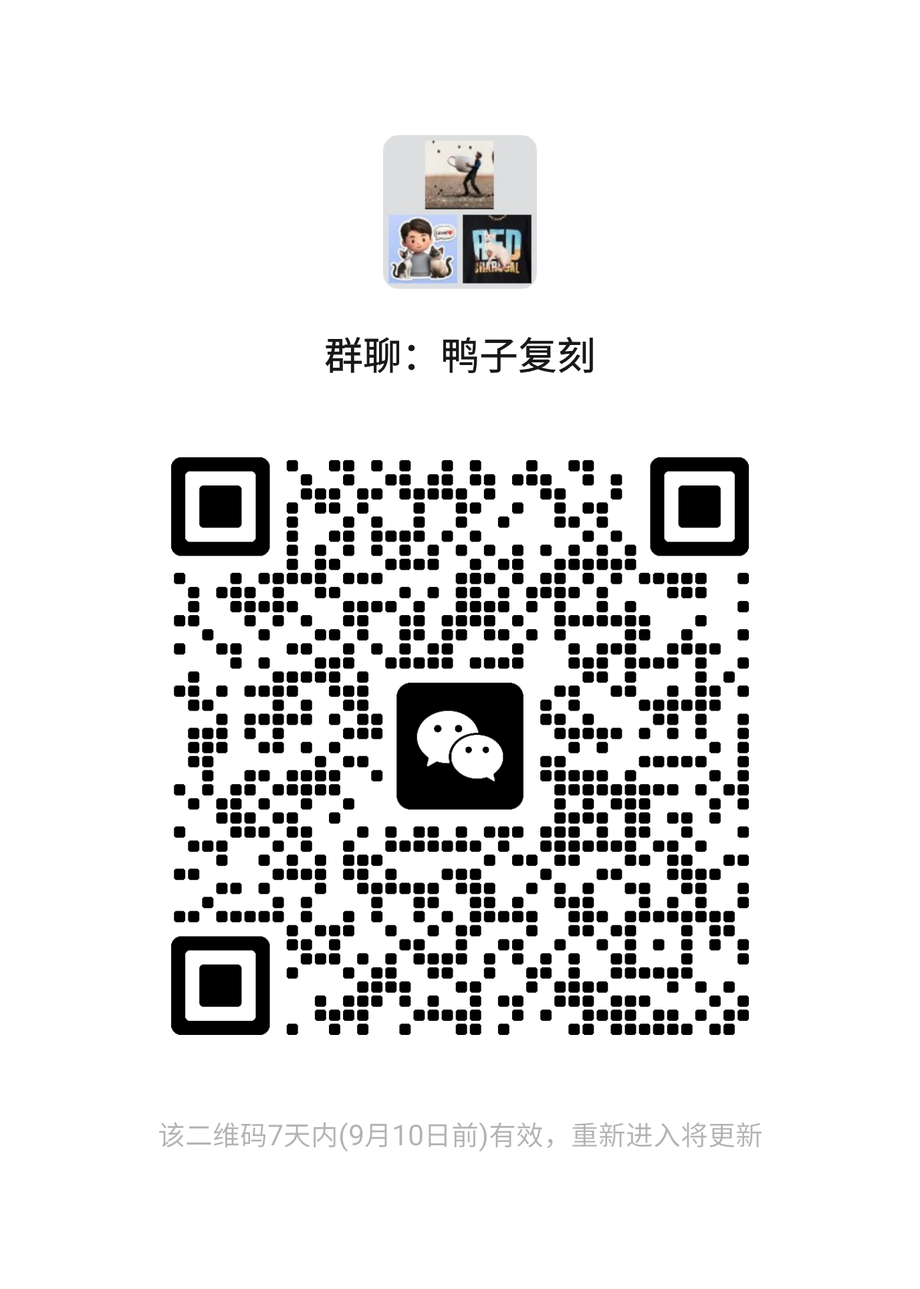
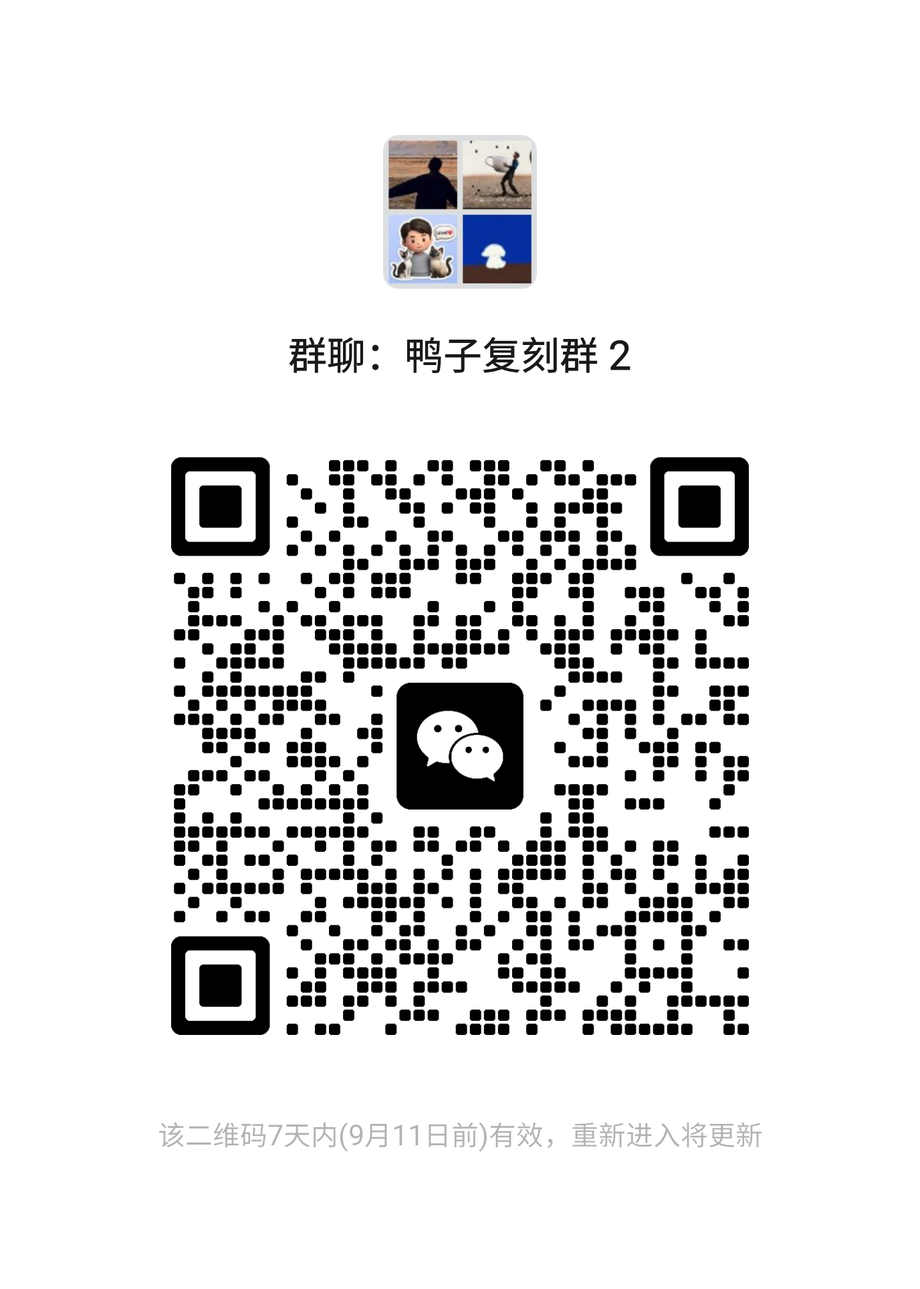
一轮审核勘误：摄像头角度、飞特协议论证、板卡口径，并收敛重复陈述
上一轮勘误只改了"发起地"那一份，散在别处的四到六份副本没跟着动，仓库里
一度同时存在两套互相打脸的说法。这次一并收齐，并补上导致这种漂移的结构问题。

事实冲突裁定
  - 摄像头是转 90° 不是倒装 180°（mediad/src/main.rs:82 的 --rotate 默认 90，
    注释「the head camera is mounted a quarter turn off」）；media-bringup.md:472
    的 180° 是 alpha 机数据。此前 7 处两派并存，其中 BOM.md 拒绝下判断
  - 打印件计数统一为 30 种 / 41 件、标准件 8（bearing_roll 改判后的值）；
    删掉 README 里与 print/README.md 矛盾的「已排除 7 个台架夹具」
  - 飞特 STS3032 力矩统一为约 85%（同电压口径）。46% 是拿 0.44 N·m 去比 MJCF 的
    forcerange 0.96 —— 那是仿真力限不是厂商值，本仓库已明令禁止这种比较
  - MK1 撤回 LMA2718（官方 BOM 只写 Microphone_MEMS，LCSC C7587901）
  - U10 LM5050-1 的「防反接」标签改为「理想二极管 OR-ing + 关机检测」，
    它在 buck 之后的 +5V 那一路
  - imu_to_dxl 的 MCU 统一为 STM32G031F8P6，并标明这是选型建议、不是逆向所得

板卡配置：撤回上一轮过重的勘误
  上一轮把「官方用 1GB/32GB」降级为「未知」，理由是源码里 grep 不到。但源码里
  没有 ≠ 官方没公布过 —— 官方 2026-08-27 发布页确实列了 1 GB / 32 GB。
  改为「官方公布 1G/32G，源码无佐证，复刻建议 2G/16G」。

飞特协议：更正一处自己引入的错误
  此前新写的对照表称 Dynamixel 侧「应答拼成一个包、总线转向 2 次」，这与同节
  引用的官方源码「500 µs per device × 16 devices = 8 ms」不能同时成立。
  查证：全库检索 fast_sync_read / 0x8A 零命中，duck-control/src/bus.rs:236 调的是
  普通 sync_read_raw_data。fast sync read 是 V2 的可选优化，官方并未使用。
  → 两边应答机制相同，都是每设备一个独立包；真正的差别只剩包格式，以及
    XL330 出厂 return_delay_time = 250 带来的 8 ms 空等（飞特默认 0）。
  转向次数标注为协议推论、未实测。

结构收敛
  - 「HAT 不要录音可整块省略」三处补上：半双工方向电路是必需的，省 HAT 要另配转接板
  - 「打样前必读的四件事」改名「四条警告」，避免与「HAT 干四件事」撞词
  - 硬件方案逆向 §一 补「主控、HAT、摄像头都在头里」——这份被引用最多却没写
  - 补四条反向链接；README.en 补收三份新文档；英文版挂「落后于中文版」横幅
  - 全量校验 23 个 md 的相对链接与锚点：0 处失效

其他
  - 微信群二维码更新为二群（一群已满 200 人），有效期至 2026-09-11
[…]

diff --git a/README.md b/README.md
@@ -28,10 +28,12 @@ MJCF 里包含了完整的运动学树：每个零件挂在谁身上、相对位
 
 有人在做同样的事，凑了个微信群一起讨论复刻进度、踩过的坑、元件采购。
 
+**一群已满 200 人**（微信满 200 后无法扫码进），下面是**二群**的码。
+
 <div align="center">
   <img src="assets/wechat-group.png" alt="鸭子复刻 微信群" width="280">
   <br>
-  <sub><b>二维码有效期到 2026-09-10</b>（微信群码 7 天自动失效）<br>
+  <sub><b>鸭子复刻群 2 · 二维码有效期到 2026-09-11</b>（微信群码 7 天自动失效）<br>
   过期了请开个 <a href="https://github.com/fanhao375/microduck-replica/issues">issue</a> 说一声，我会换上新的</sub>
 </div>
 
@@ -109,10 +111,10 @@ MJCF 里包含了完整的运动学树：每个零件挂在谁身上、相对位
 
 | 目录 | 数量 |
 |---|---|
-| [`print/打印件/`](print/打印件/) | **37 个**结构件 |
+| [`print/打印件/`](print/打印件/) | **30 种 / 41 件**结构件 |
 | [`print/标准件-无需打印/`](print/标准件-无需打印/) | **9 个**外购件模型（对位用） |
 
-> 已排除上游的 7 个台架测试夹具和 1 个重复件。打印建议见 [`print/README.md`](print/README.md)。
+> 上游的 XL330 台架测试夹具在另一个目录，本来就不属于机器人。打印建议与数量表见 [`print/README.md`](print/README.md)，采购见 [机械采购清单](docs/机械采购清单.md)。
 
 ## CAD 装配体
 
@@ -129,6 +131,17 @@ MJCF 里包含了完整的运动学树：每个零件挂在谁身上、相对位
 
 ## 从运行时反推出的电控方案
 
+<div align="center">
+  <img src="assets/hw/01-物理布局.png" alt="Microduck 电控总览：板子都装在哪" width="880">
+  <br>
+  <sub><b>五个模块的物理布局</b> —— 灰色虚线框是物理区域，实线框是模块，红色虚线框表示装在壳体<b>外面</b>。<br>
+  <b>橙色</b>是舵机总线（自上而下），<b>红色</b>是电池供电（自下而上）。<br>
+  最容易搞错的一条：<b>主控、HAT、摄像头三者都在头里</b>，摄像头距主控板中心约 13 mm 且中间没有关节 ——<br>
+  所以 MIPI 排线不穿过脖子，真正过颈的是舵机总线和供电线。<br>
+  <a href="docs/硬件入门.md">完整图集与讲解 →</a></sub>
+</div>
+
+
 **一条 1 Mbps 的 TTL 串行总线搞定一切。**
 
 ```
@@ -136,7 +149,7 @@ MJCF 里包含了完整的运动学树：每个零件挂在谁身上、相对位
                   ├── UART2  1 Mbps TTL 单线半双工 ── 15× XL330 + imu_to_dxl (ID 200)
                   ├── I2C3   400 kHz (pin 3/5) ────── AIC3104@0x18 · ToF@0x29 · BMI088（未用）
                   ├── I2S3   12.288 MHz ───────────── 音频
-                  ├── MIPI CSI ────────────────────── IMX219（I2C@0x10，倒装）
+                  ├── MIPI CSI ────────────────────── IMX219（I2C@0x10，转 90°）
                   ├── 蓝牙 ────────────────────────── 手柄 / 手机 App
                   ├── Wi-Fi ───────────────────────── WebRTC
                   └── USB-C ───────────────────────── 供电 + maskrom
@@ -145,7 +158,7 @@ MJCF 里包含了完整的运动学树：每个零件挂在谁身上、相对位
 | | |
 |---|---|
 | **主控** | **Radxa Zero 3W** —— 市售模块，**不是定制载板** |
-| SoC | RK3566，四核 Cortex-A55，Mali-G52，0.8 TOPS NPU，1 GB RAM / 32 GB eMMC |
+| SoC | RK3566，四核 Cortex-A55，Mali-G52，0.8 TOPS NPU。官方公布 1 GB / 32 GB eMMC；复刻建议 2G/16G，见 [电控采购清单](docs/电控采购清单.md) |
 | **舵机总线** | **单线半双工 TTL** —— **不是** RS-232，**也不是** RS-485。Dynamixel Protocol V2 @ 1 Mbps，走 `/dev/ttyS2` |
 | **自制板 1** | **`imu_to_dxl` v2** —— 一颗会说 Dynamixel 的 LSM6DSV16X：总线 ID 200、寄存器 124，12 字节块在**同一次** `sync_read` 里和舵机一起读回 |
 | **自制板 2** | **RPI Robot HAT** —— TLV320AIC3104 @ 0x18、一颗休眠的 BMI088、接 ToF 的 Stemma 座。**官方已开源**（[`elec_RPI_Robot_HAT`](https://github.com/pollen-robotics/elec_RPI_Robot_HAT)） |
@@ -198,7 +211,7 @@ MJCF 里包含了完整的运动学树：每个零件挂在谁身上、相对位
 | 舵机 | XL330 × 15，市售件照买 |
 | 主控 | **Radxa Zero 3W**，市售模块，与官方同款 |
 | IMU 板 | 自己画 `imu_to_dxl`：LSM6DSV16X + MCU + 半双工收发器，协议已还原 |
-| HAT 板 | **官方 Gerber 直接打样**（4 层板）；不要录音的话也可整块省略 |
+| HAT 板 | **官方 Gerber 直接打样**（4 层板）。不要录音可整块省略，但**半双工方向电路要另配转接板**，见 [电控采购清单](docs/电控采购清单.md#六两块-pcb) |
 | 软件 | 主控同款则官方 Rust 运行时可直接跑（Apache-2.0） |
 | 策略 | 官方 9 个 ONNX 可用；改硬件后用 [microduck_rl](https://github.com/pollen-robotics/microduck_rl) 重训 |
 

diff --git a/docs/硬件规格速查.md b/docs/硬件规格速查.md
@@ -1,5 +1,7 @@
 # Microduck 硬件规格速查
 
+> 📘 新手先看 [硬件入门](硬件入门.md)（一块板一块板讲）；完整推导见 [硬件方案逆向](硬件方案逆向.md)。
+
 > 一页纸版本。完整推导过程和证据见 [硬件方案逆向.md](硬件方案逆向.md)。
 > 所有数据来自 `pollen-robotics/microduck` 的源码、设备树和配置文件 —— **代码即规格书**。
 
@@ -17,7 +19,7 @@ Dynamixel XL330 + 两块自制板。
                 └──┬────────┬─────────┬────────┘
       /dev/ttyS2   │        │ 40-pin  │ MIPI CSI
       1 Mbps TTL   │        │  I2C3   │
-    ┌──────────────┘        │ 400kHz  └── IMX219 摄像头（倒装 180°）
+    ┌──────────────┘        │ 400kHz  └── IMX219 摄像头（转 90°）
     │                       │
     │              ┌────────▼─────────────────┐
     │              │  Pollen RPI Robot HAT    │  65×30mm 自制板(已开源)
@@ -143,7 +145,7 @@ IMU 板 200
 
 ### ② Pollen RPI Robot HAT —— 官方已开源，直接打样
 
-65.02 × 30.02 × 0.84 mm（实测自 `elec_rpi_robot_hat_pcb.stl`），插 40 针排针。
+**65.0 × 30.9 mm，板厚 1.0 mm，4 层板**（取自官方 KiCad 与 Gerber，见 [BOM](../BOM.md)）。STL 网格量出的 65.02 × 30.02 × 0.84 是仿真近似值，**下单不要用**。插 40 针排针。
 
 | 器件 | I2C 地址 | 说明 |
 |---|---|---|
@@ -165,7 +167,7 @@ IMU 板 200
 |---|---|---|---|
 | IMU | **LSM6DSV16X** | Dynamixel 总线 ID 200 | 芯片内 SFLP 出四元数，主机不跑融合 |
 | ToF | **VL53L5CX / VL53L8CX** | I2C `0x29` @ i2c3 | 15 Hz，多区测距 |
-| 摄像头 | **IMX219**（树莓派 Camera v2） | MIPI CSI，I2C `0x10` | **倒装，需 rotation 180** |
+| 摄像头 | **IMX219**（树莓派 Camera v2） | MIPI CSI，I2C `0x10` | **转 90°**，见 [硬件方案逆向](硬件方案逆向.md#七传感器) |
 
 - 摄像头传感器钉在 1920×1080@30 模式（避开开机默认模式的 21 fps 上限），
   ISP 缩放输出，默认 720p30 @ 2 Mb/s
@@ -234,7 +236,7 @@ IMU 板 200
 | 树莓派 Camera v2（IMX219） | ✅ 直接买 | |
 | VL53L8CX 模块 | ✅ 直接买 | Stemma/Qwiic 现货 |
 | **`imu_to_dxl` 板** | 🔧 **自己画** | 协议已完整还原，元件仅 3 样 |
-| **HAT 板** | ✅ 下载官方 Gerber 打样 | 4 层板；不要录音喇叭也可整块省略 |
+| **HAT 板** | ✅ 下载官方 Gerber 打样 | 4 层板。不要录音喇叭可整块省略，但**半双工方向电路必须另配转接板**，见 [电控采购清单](电控采购清单.md#六两块-pcb) |
 | 控制软件 | ✅ 官方 Apache-2.0 | 主控同款则**可直接跑** |
 | 策略 | ✅ 官方 9 个 ONNX | 硬件不变即可用 |
 
@@ -281,10 +283,10 @@ IMU 板 200
 |---|---|---|---|
 | SoC | RK3566，四核 A55 @1.8GHz，Mali-G52，NPU **0.8 TOPS** | RK3566（设备树 `compatible`） | ✅ 一致 |
 | **主控模块** | **未公布** | **Radxa Zero 3W** | 🔍 **逆向独有** |
-| RAM / 存储 | **1 GB / 32 GB eMMC** | — | 🆕 **佐证**：正是 Radxa Zero 3W 的一个 SKU |
+| RAM / 存储 | **1 GB / 32 GB eMMC** | 源码中无佐证 | 🆕 **官方独有**：正是 Radxa Zero 3W 的一个 SKU。<br>⚠ 复刻建议 2G/16G，见 [电控采购清单](电控采购清单.md#该买哪个配置) |
 | 电池 | **NP-F550，2600 mAh，续航约 1 小时** | NP-F550，2S，8.2 V 满 / 6.6 V 空 | ✅ 一致 |
 | ToF | **8 × 8** LiDAR | VL53L5CX / VL53L8CX @ `0x29` | ✅ 该系列正是 8×8 |
-| 摄像头 | 前置摄像头带指示灯 | **IMX219**（Pi Cam v2），I2C `0x10`，倒装 180° | 🔍 逆向更细 |
+| 摄像头 | 前置摄像头带指示灯 | **IMX219**（Pi Cam v2），I2C `0x10`，**转 90°** | 🔍 逆向更细 |
 | **IMU** | **2 个（身体 + 头部）** | LSM6DSV16X **在用**；BMI088 源码标注 **dormant / unused** | ⚠ **矛盾，见下** |
 | 电机 | 15 DOF，铰接可抓取的喙 | 15 × Dynamixel XL330，含完整 ID 表 | ✅ 一致 |
 | 尺寸重量 | 高 25 cm，宽 **14 cm**，< 800 g | 实测 **144 × 141 × 264 mm**，**737.2 g** | ✅ 一致 |

diff --git a/BOM.md b/BOM.md
@@ -12,7 +12,6 @@
 > `microduck_rl` 工作副本逐字节相同，而该副本是 depth-1 浅克隆、HEAD = **`d424a0c`（2026-08-27）**。
 > 此前记录的基线 `29e887e` / 重导出 `8dfc08f` 在本地对象库中不存在，**因此"重导出前后 geom
 > 计数相同"这句无法验证**。下文所有计数均出自 `d424a0c`。
-> 重导出前后 `robot_walk.xml` 的 geom 计数**完全相同**（38 种 / 75 个），所以本表数量不受影响。
 
 ---
 
@@ -71,8 +70,8 @@
 
 | 部件 | 型号 | 数量 | 依据 / 备注 |
 |---|---|---|---|
-| 主控 | **Radxa Zero 3W** | 1 | 设备树 `compatible = "radxa,zero-3w"`。⚠ 有多档 RAM/eMMC，**官方实际用哪档未知** —— 全库 grep 不到任何板卡规格；复刻建议 2G/16G，推算见 [电控采购清单](docs/电控采购清单.md)；系统镜像必须带 Rockchip 厂商内核（Armbian 系），否则 NPU 不存在 |
-| 摄像头 | 树莓派 Camera v2（**IMX219**） | 1 | `setup-board.sh` 用 `radxa-zero3-rpi-camera-v2` overlay。⚠ **装歪了，要软件补偿**：`media-bringup.md` 写 alpha 机是倒装、`180`；但当前代码 `mediad/src/main.rs` 的 `--rotate` 默认是 **90**。以实机为准 |
+| 主控 | **Radxa Zero 3W** | 1 | 设备树 `compatible = "radxa,zero-3w"`。⚠ 有多档 RAM/eMMC。官方 2026-08-27 发布页公布 **1 GB / 32 GB**，但 `microduck/` 源码中无佐证（源码本来就不体现板卡 SKU）；**复刻建议 2G/16G**，推算见 [电控采购清单](docs/电控采购清单.md#该买哪个配置)；系统镜像必须带 Rockchip 厂商内核（Armbian 系），否则 NPU 不存在 |
+| 摄像头 | 树莓派 Camera v2（**IMX219**） | 1 | `setup-board.sh` 用 `radxa-zero3-rpi-camera-v2` overlay。⚠ **装歪了四分之一圈，要软件补偿**：当前代码 `mediad/src/main.rs:82` 的 `--rotate` 默认 **90**，注释原文「the head camera is mounted **a quarter turn off**, and this is the one place that fact is written down」。`media-bringup.md:472` 的 180° 是 **alpha 机**数据。**以代码为准 = 90°** |
 | 深度 | **VL53L8CX** 或 VL53L5CX 模块 | 1 | 固件两款都支持，按 revision ID 自动识别；地址 `0x29` 或 `0x52`；Stemma/Qwiic 接口 |
 | 电池 | **索尼 NP-F550**（2S，7.4 V） | 1 | ⚠ 见下方勘误 |
 | 电池卡座 | NP-F 系列通用卡座 | 1 | 上游只有打印件 `power_support`，**没有触点模型** —— 取电方案需自行解决 |
@@ -117,7 +116,7 @@
 | MK1 | MEMS 麦克风（LCSC **C7587901**） | 板载。⚠ 官方 BOM 的 Value 只写 `Microphone_MEMS`，原理图旁只有「Onboard Mic.」，**未给具体型号**；本仓库此前写的 LMA2718 无出处，已撤回 |
 | U11 | BMI088 | IMU —— **贴了但软件不用**（即所谓「第二颗 IMU」） |
 | U8 | SIT3088E | RS-485 收发器 |
-| U10 | LM5050-1 | 理想二极管（防反接） |
+| U10 | LM5050-1 | 理想二极管 OR-ing ＋ 关机检测。⚠ 位于 buck 之后的 `+5V` 路，非电池输入端防反接 |
 | U9 | AP63205 | 降压 |
 | U4 | CAT24C32 | EEPROM —— **DNP 不贴**，所以这不是自识别 HAT |
 | J13/J14 | JST EH 3P | Dynamixel **TTL** |
@@ -142,7 +141,7 @@
 
 | 位号 | 器件 | 立创编号 | 说明 |
 |---|---|---|---|
-| U1 | **STM32G031F6P6** | `C529333` | MCU，TSSOP-20。做 Dynamixel V2 从机 |
+| U1 | **STM32G031F8P6** | 待核 | MCU，TSSOP-20。⚠ **这是本仓库的选型建议，不是逆向所得** —— 官方那块板的 MCU 型号无从还原（见 [硬件方案逆向](docs/硬件方案逆向.md#那-imu_to_dxl-板上是什么-mcu)）。选 F8（64 KB Flash）而非 F6（32 KB）是为双协议固件留余量；立创编号需按最终型号重新确认 |
 | U2 | **LSM6DSV16XTR** | `C5267406` | 六轴 IMU + SFLP 硬件融合，LGA-14 |
 | U3 | **SN74LVC2G241DCUR** | `C10430` | 三态缓冲，做单线半双工 |
 | U4 | **HT7533-1** | `C14289` | 3.3V LDO，**耐压 30 V**（基础库免上料费） |

diff --git a/README.en.md b/README.en.md
@@ -44,10 +44,12 @@ This repository is what falls out of reading both.
 
 A WeChat group for people working on the same thing — build progress, pitfalls, sourcing.
 
+**Group 1 is full (200 members — WeChat's cap for QR joins).** The code below is for **group 2**.
+
 <div align="center">
   <img src="assets/wechat-group.png" alt="Microduck replica WeChat group" width="280">
   <br>
-  <sub><b>This QR code expires on 2026-09-10</b> — WeChat group codes are valid for 7 days<br>
+  <sub><b>Duck Replica Group 2 · expires 2026-09-11</b> — WeChat group codes are valid for 7 days<br>
   If it has expired, open an <a href="https://github.com/fanhao375/microduck-replica/issues">issue</a> and I will post a fresh one</sub>
 </div>
 
@@ -130,7 +132,7 @@ Every individual STL, split into print-these and buy-these, bilingual filenames 
 
 | Directory | Count |
 |---|---|
-| [`print/打印件/`](print/打印件/) | **37** structural parts |
+| [`print/打印件/`](print/打印件/) | **30 types / 41 pieces** of structural parts |
 | [`print/标准件-无需打印/`](print/标准件-无需打印/) | **9** bought-part models (for fit checking) |
 
 > Upstream's 7 test-bench fixtures and 1 duplicate are excluded. Printing notes:
@@ -153,6 +155,19 @@ browser and drop an STL in.
 ---
 
 ## Electronics, Reverse-Engineered from the Runtime
+
+<div align="center">
+  <img src="assets/hw/01-物理布局.png" alt="Microduck electronics overview: where each board sits" width="880">
+  <br>
+  <sub><b>Physical layout of the five modules.</b> Dashed grey = physical region, solid = module,
+  dashed red = mounted <b>outside</b> the shell.<br>
+  <b>Orange</b> is the servo bus (top-down), <b>red</b> is battery power (bottom-up).<br>
+  The one thing people get wrong: <b>the compute board, the HAT and the camera are all in the head</b> —
+  the camera sits ~13 mm from the board centre with no joint between them,<br>
+  so the MIPI ribbon never crosses the neck. What does cross it is the servo bus and the power line.<br>
+  <a href="docs/硬件入门.md">Full diagram set (Chinese) →</a></sub>
+</div>
+
 
 **One 1 Mbps TTL serial bus does everything.**
 
@@ -258,6 +273,9 @@ what it is good for.
 | Document | Contents |
 |---|---|
 | [**Hardware Spec Sheet**](docs/硬件规格速查.md) | One-page reference — block diagram, part numbers, bus parameters, build list, pitfalls |
+| [**Hardware Primer**](docs/硬件入门.md) | **Board by board** — what each of the five modules does, how one 20 ms control tick flows, what changes on the Feetech route, and a closing section on **five checks to run before you replicate** |
+| [**Electronics Sourcing (CN)**](docs/电控采购清单.md) | Taobao links with verified availability — main board, camera, ToF, power, both PCBs, cabling and the debug adapter |
+| [**Mechanical Sourcing (CN)**](docs/机械采购清单.md) | Bearings, M2 fasteners, heat-set inserts and the insertion tip, thread locker, filament |
 | [**Hardware Teardown**](docs/hardware-teardown.en.md) 🇬🇧 | **Full derivation with evidence citations — the main board, both custom boards, bus protocol, sensors, power** |
 | [**Actuator Selection**](docs/actuator-selection.en.md) 🇬🇧 | XL330 parameters, BAM M6 config, five calibrated PD sets, backlash modeling — plus **why closed-loop steppers do not work here, what swapping to a Feetech STS3215 actually costs** (737 g vs 2107 g, measured), and a **cross-comparison of same-class servos** including a deep assessment of the Unitree S288 |
 | [**Fastener Reconstruction**](docs/fastener-reconstruction.en.md) 🇬🇧 | Hole-feature scan across 47 STLs → M2 system and purchase quantities |

diff --git a/BOM.en.md b/BOM.en.md
@@ -1,5 +1,7 @@
 # Bill of Materials
 
+> ⚠ **This English version lags behind the Chinese original.** Several corrections (camera rotation, MK1 part number, U10 placement, STS3032 torque basis, board SKU) were applied to the Chinese docs first. **When the two disagree, the Chinese version wins.** Last sync: 2026-09-05.
+
 [简体中文](BOM.md) · **English**
 
 Everything needed to build one Microduck. Quantities come from geom references in upstream
@@ -66,7 +68,7 @@ European inc-VAT retail runs **€603–629** (far above).
 
 | Part | Model | Qty | Basis / note |
 |---|---|---|---|
-| Compute | **Radxa Zero 3W** | 1 | device tree `compatible = "radxa,zero-3w"`. ⚠ Several RAM/eMMC SKUs — **the official one is 1 GB / 32 GB**; the OS image must carry the Rockchip vendor kernel (Armbian family) or the NPU does not exist |
+| Compute | **Radxa Zero 3W** | 1 | device tree `compatible = "radxa,zero-3w"`. ⚠ Several RAM/eMMC SKUs — the official spec page (2026-08-27) states **1 GB / 32 GB**, though the source tree carries no SKU evidence; **2G/16G recommended for a replica**. the OS image must carry the Rockchip vendor kernel (Armbian family) or the NPU does not exist |
 | Camera | Raspberry Pi Camera v2 (**IMX219**) | 1 | `setup-board.sh` applies the `radxa-zero3-rpi-camera-v2` overlay. ⚠ **Mounted off-axis; corrected in software.** `media-bringup.md` says the alpha was upside down (`180`), but the current code default in `mediad/src/main.rs` is `--rotate 90`. Check against your build |
 | Depth | **VL53L8CX** or VL53L5CX module | 1 | firmware supports both, identified by revision ID; address `0x29` or `0x52`; Stemma/Qwiic |
 | Battery | **Sony NP-F550** (2S, 7.4 V) | 1 | ⚠ see correction below |
@@ -109,7 +111,7 @@ Earlier versions of this repository said "NP-F970" in several places; corrected 
 |---|---|---|
 | U2 | TLV320AIC3104IRHBR | Audio codec (I²C `0x18`) |
 | U1 | PAM8406D | Class-D amplifier |
-| MK1 | LMA2718 | On-board MEMS microphone |
+| MK1 | MEMS microphone (LCSC `C7587901`) | On-board. ⚠ Official BOM gives no part number; the earlier LMA2718 has been withdrawn |
 | U11 | BMI088 | IMU — **fitted but unused by software** (the so-called "second IMU") |
 | U8 | SIT3088E | RS-485 transceiver |
 | U10 | LM5050-1 | Ideal diode (reverse protection) |
@@ -138,7 +140,7 @@ Earlier versions of this repository said "NP-F970" in several places; corrected 
 
 | Ref | Part | LCSC | Note |
 |---|---|---|---|
-| U1 | **STM32G031F6P6** | `C529333` | MCU, TSSOP-20. Runs the Dynamixel V2 slave |
+| U1 | **STM32G031F8P6** | TBD | MCU, TSSOP-20. ⚠ **This is our suggestion, not a reverse-engineered fact** — the official board's MCU cannot be recovered. F8 (64 KB) over F6 (32 KB) leaves headroom for dual-protocol firmware |
 | U2 | **LSM6DSV16XTR** | `C5267406` | 6-axis IMU with SFLP fusion, LGA-14 |
 | U3 | **SN74LVC2G241DCUR** | `C10430` | Tri-state buffer for single-wire half-duplex |
 | U4 | **HT7533-1** | `C14289` | 3.3 V LDO, **30 V input rating** (JLC basic part — no setup fee) |

diff --git a/docs/hardware-teardown.en.md b/docs/hardware-teardown.en.md
@@ -1,5 +1,7 @@
 # Microduck Electronics, Reverse-Engineered
 
+> ⚠ **This English version lags behind the Chinese original.** Several corrections (camera rotation, MK1 part number, U10 placement, STS3032 torque basis, board SKU) were applied to the Chinese docs first. **When the two disagree, the Chinese version wins.** Last sync: 2026-09-05.
+
 [简体中文](硬件方案逆向.md) · **English**
 
 **Method:** the Rust runtime is open source, and a runtime that drives real hardware has
@@ -198,7 +200,7 @@ It is a general-purpose HAT for small and medium robots. Three known users:
 | Part | Function |
 |---|---|
 | `U1 = PAM8406D` | Class-D audio amplifier |
-| `MK1 = LMA2718` | **On-board MEMS microphone** |
+| `MK1` | **On-board MEMS microphone** (LCSC `C7587901`). ⚠ The official BOM only says `Microphone_MEMS`; the part number LMA2718 had no source and has been withdrawn |
 | `U10 = LM5050-1` | Ideal-diode controller (reverse protection / OR-ing) |
 | `AP63205` | Buck converter |
 | `CAT24C32` | EEPROM — required by the Raspberry Pi HAT+ specification |
@@ -417,7 +419,7 @@ pitch, and the mouth opens with it. Playable band 0.10–0.70 m.
 | Sensor | **IMX219** (= Raspberry Pi Camera v2) |
 | I²C address | `0x10` |
 | Device-tree overlay | `radxa-zero3-rpi-camera-v2` |
-| Mounting | **upside down**, needs `rotation = 180` |
+| Mounting | **a quarter turn off** — `mediad/src/main.rs:82` defaults `--rotate` to **90**.<br>⚠ The 180° in `docs/project/media-bringup.md:472` is **alpha-unit** data. |
 | Sensor mode | pinned to 1920×1080@30 (its boot mode caps capture at 21 fps) |
 | Default output | 720p30, 2 Mb/s |
 | Encoding | GStreamer + **Rockchip MPP hardware encoder** → WebRTC |
@@ -624,7 +626,7 @@ transceiver. The protocol and 12-byte register layout are given in full above; i
    negotiation (plain 5 V charging still works). See section 4.
 2. **The NPU ships disabled** — Armbian does not enable it; flash the overlay and reboot
    before running RKNN models.
-3. **The camera is mounted upside down** — set `rotation=180` and let the hardware encoder
+3. **The camera is mounted a quarter turn off** — set `rotate=90` and let the hardware encoder
    do it; do *not* use `videoflip`, which is a full CPU pass over every frame.
 4. **The 50 Hz loop was never validated on the Radxa** — Pollen say so themselves; the
    number came from the Pi Zero 2W prototype.

diff --git a/docs/电控采购清单.md b/docs/电控采购清单.md
@@ -75,9 +75,10 @@
 
 → **1 GB 能跑但紧，2 GB 舒服，8 GB 纯浪费。**
 
-> ⚠ **官方实际用哪个配置：未知。** 在 `microduck/` 全库 grep RAM 容量 / eMMC / SKU，
-> **没有任何一处给出官方板卡规格**（只有 `compatible = "radxa,zero-3w"` 和一堆
-> `radxa-zero3` 主机名）。本仓库此前写的「官方用 1GB/32GB」**没有依据，已降级为未知**。
+> ⚠ **官方公布的是 1 GB / 32 GB，但那不等于复刻也该买这档。**
+> 官方 2026-08-27 发布页列出 **1 GB / 32 GB eMMC**（正是 Radxa Zero 3W 的一个 SKU，
+> 也反向佐证了主控判断）；但 `microduck/` 源码里查不到任何板卡 SKU —— 源码本来就不体现这个。
+> **按上面的体量推算，复刻建议 2G/16G**：1 GB 要和 zram 日志设备分内存，跑起来偏紧。
 
 ### 渠道 —— 国内电商价格全线虚高
 
@@ -301,12 +302,12 @@ STM32G031F8P6 + LSM6DSV16X + 半双工缓冲，对外表现成总线从机（Dyn
 
 > **调试板是必需品** —— 舵机到货第一件事是实测总线时序。
 >
-> ⚠ **但要说清楚：这不是飞特独有的问题。** 官方 Dynamixel 路径同样是**每设备一次应答延迟** ——
+> ⚠ **这不是飞特独有的问题。** 官方 Dynamixel 路径同样是**每设备一次应答延迟** ——
 > `duck-control/src/model.rs:84-86` 写着 XL330 出厂 `return_delay_time = 250`，
 > 即 **500 µs/设备**，「Across **16 devices** that is **8 ms per tick — 40% of a 20 ms budget**」，
 > 官方的解法是把这个寄存器写 0（在 `EXPECTED_REGISTERS` 里）。
-> 飞特（Protocol V1）**有没有对应的批量读指令与延迟寄存器，本仓库无法从现有资料判断** ——
-> 所以更要实测，而不是假定它一定更慢。
+> **飞特侧已查清**：STS/SCS 有 `SYNC READ`（`0x82`），且 Return Delay Time 出厂就是 0 ——
+> 见 [硬件方案逆向 · 飞特 STS/SCS 协议对照](../docs/硬件方案逆向.md)。所以更要实测，不能假定它一定更慢。
 
 ---
 
@@ -328,4 +329,3 @@ STM32G031F8P6 + LSM6DSV16X + 半双工缓冲，对外表现成总线从机（Dyn
 - Pollen 是否单卖 HAT
 - Zero 3W 的 CSI 座究竟是 15P 还是 22P（官方文档未给，本文标为「极可能 22P」）
 - 泰山派的规格、价格、开源工程内容
-- 飞特 STS/SC 协议是否有批量读指令

diff --git a/docs/硬件入门.md b/docs/硬件入门.md
@@ -84,7 +84,7 @@
 | GPIO04/05、08/09、10/11 | 额外 Stemma/QT I²C | |
 | MIPI CSI | 摄像头 | |
 
-**买哪个配置**：2G / 16G eMMC。推算过程见 [电控采购清单](电控采购清单.md#该买哪个配置--按实测体量推算)。
+**买哪个配置**：2G / 16G eMMC。推算过程见 [电控采购清单](电控采购清单.md#该买哪个配置)。
 ⚠ **官方实际用哪档配置，全库检索不到任何依据 —— 未知。**
 
 ---
@@ -313,8 +313,8 @@ ISP 配置 `SENSOR = imx219`。
 | 影响 | 说明 |
 |---|---|
 | 🔴 **官方 9 个 ONNX 策略大概率失效** | 舵机换了，力矩曲线、质量、可能连减速比都不同。**必须重训**（需要 CUDA GPU 或 HF jobs） |
-| 🟡 **总线时序必须实测** | 飞特走 Protocol V1，包格式不同。**但不要假定它一定更慢** —— 官方 Dynamixel 路径同样有每设备转向延迟（见上）。到货第一件事是跑基准测试，配一块 **FE-URT-1 调试板** |
-| 🟡 **`imu_to_dxl` 要重新定位** | 总线协议变了，这块板要么改成模拟飞特从机，要么放弃"挂总线"设计让 IMU 走 SPI 直连。**建议：硬件不变、固件双协议** —— 两者物理层完全相同（半双工单线 TTL / 1 Mbps / 3 线），差别只在包格式（V2 是 `FF FF FD 00` + CRC-16，飞特是 `FF FF` + `~sum`） |
+| 🟡 **总线时序必须实测** | 飞特走 STS/SCS 自有指令集（含 `0x82 SYNC READ`），包格式不同。**但不要假定它一定更慢** —— 官方 Dynamixel 路径同样有每设备转向延迟（见上）。到货第一件事是跑基准测试，配一块 **FE-URT-1 调试板** |
+| 🟡 **`imu_to_dxl` 要重新定位** | 总线协议变了，这块板要么改成模拟飞特从机，要么放弃"挂总线"设计让 IMU 走 SPI 直连。**建议：硬件不变、固件双协议** —— 两者物理层完全相同（半双工单线 TTL / 1 Mbps / 3 线），差别在**包格式**与**出厂默认值**，见 [硬件方案逆向](硬件方案逆向.md) 的「飞特 STS/SCS 协议对照」 |
 | 🟢 **电压反而更合适** | 飞特 HD-1910 原生 5–8.4 V，不用像 XL330 那样超压运行 |
 
 ---

diff --git a/docs/actuator-selection.en.md b/docs/actuator-selection.en.md
@@ -1,5 +1,7 @@
 # Actuator Selection and Parameters
 
+> ⚠ **This English version lags behind the Chinese original.** Several corrections (camera rotation, MK1 part number, U10 placement, STS3032 torque basis, board SKU) were applied to the Chinese docs first. **When the two disagree, the Chinese version wins.** Last sync: 2026-09-05.
+
 [简体中文](执行器选型.md) · **English**
 
 ## The Motor: Dynamixel XL330, 15 of Them
@@ -483,7 +485,7 @@ The closest of the Feetech parts: **smaller than the XL330** (23.2 × 12.1 × 28
 29 × 20 × 34), nearly the same mass (20 g vs 18 g), the same 12-bit encoder class, the same
 half-duplex bus architecture.
 
-**Two problems:** torque is only **46 %** (0.44 vs 0.96 N·m), and the **voltage ceiling is
+**Two problems:** torque is about **85 %** on a same-voltage basis (0.44 N·m @6 V vs XL330 0.52 N·m @5 V). The earlier "46 %" compared 0.44 against the MJCF **`forcerange` 0.96**, which is a simulation force limit, not a vendor figure — the two are not comparable. The **voltage ceiling is
 6 V** while Microduck is 2S at 7.4 V — connect it directly and it burns.
 
 ### Could you mix servo types?
@@ -512,7 +514,7 @@ torque.** 0.23 N·m is enough for a finger joint and not enough for a knee.
 Wanted:  18-20 g  .  >=0.9 N.m  .  7.4 V (2S)  .  bus daisy chain  .  integrated encoder + driver
 Today:   Robotis XL330     meets all of it
          Unitree S288      meets mass/size/ratio/bus, but 12.6 V (3S); torque unconfirmed
-         Feetech STS3032   meets mass/size, torque only 46 %, 6 V ceiling
+         Feetech STS3032   meets mass/size, torque ~85 % (same-voltage), 6 V ceiling
 ```
 
 **The gap is being squeezed — the Unitree S288 has closed most of it.** What still blocks

diff --git a/PROGRESS.md b/PROGRESS.md
@@ -104,7 +104,7 @@
 - 结论：**没有中间路线** —— 保 XL330（舵机 ¥4500）或换 STS3215
   （等于去做 Open Duck Mini v2）
 - **补充同级别舵机横向对比**：飞特 STS3032（20 g / 23.2×12.1×28.5 mm / 0.44 N·m /
-  4.8–6 V）尺寸比 XL330 还小、重量相当，但力矩仅 46% 且电压上限 6 V；
+  4.8–6 V）尺寸比 XL330 还小、重量相当，但力矩约 85%（同电压口径）且电压上限 6 V；
   SCS0009 仅 11 g 但只有 0.23 N·m（Pollen 自己用在 Amazing Hand 上）
 - 结论：空档明确为「18–20 g / ≥0.9 N·m / 7.4 V / 总线」，目前只有 Robotis 一家满足
 - **深度评估宇树 S288**（通读官方 11 页手册）：19.5 g / 34×20×23 mm /
@@ -132,7 +132,7 @@
 
 - 官方 2026-08-27 发布，公布部分规格；与本仓库逆向结果**逐项对照**
 - 互相印证：RK3566 / NP-F550 / 8×8 ToF / 宽 140mm 全部对上
-- 官方补足：RAM 1GB + 32GB eMMC（**正是 Radxa Zero 3W 的 SKU，反向佐证主控判断**）、
+- 官方补足：RAM 1GB + 32GB eMMC（**正是 Radxa Zero 3W 的 SKU，反向佐证主控判断**；源码中无佐证，复刻建议 2G/16G）、
   NPU 0.8 TOPS、NFC 双天线
 - 逆向独有：主控型号、主总线方案、全部芯片地址与协议
 - **发现一处矛盾**：官方标 2 个 IMU，源码里只有 1 个在用（BMI088 标注 dormant）
